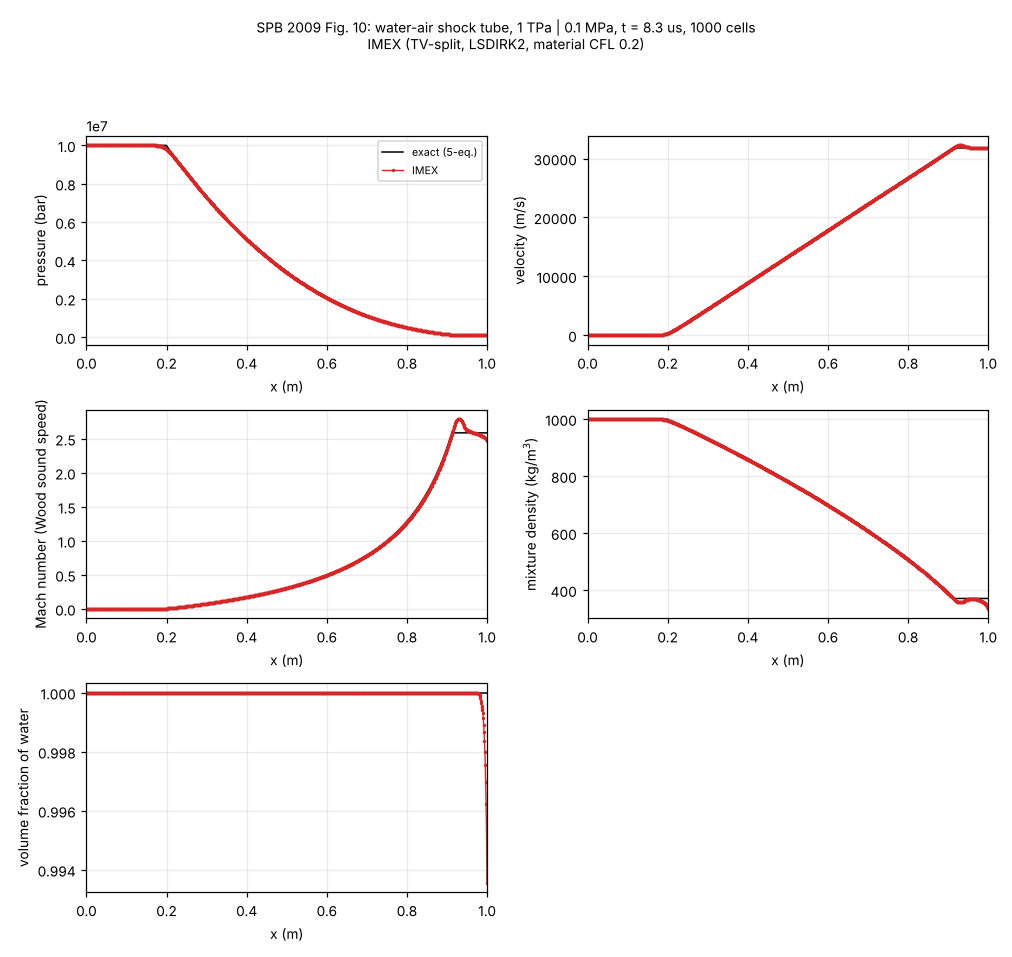
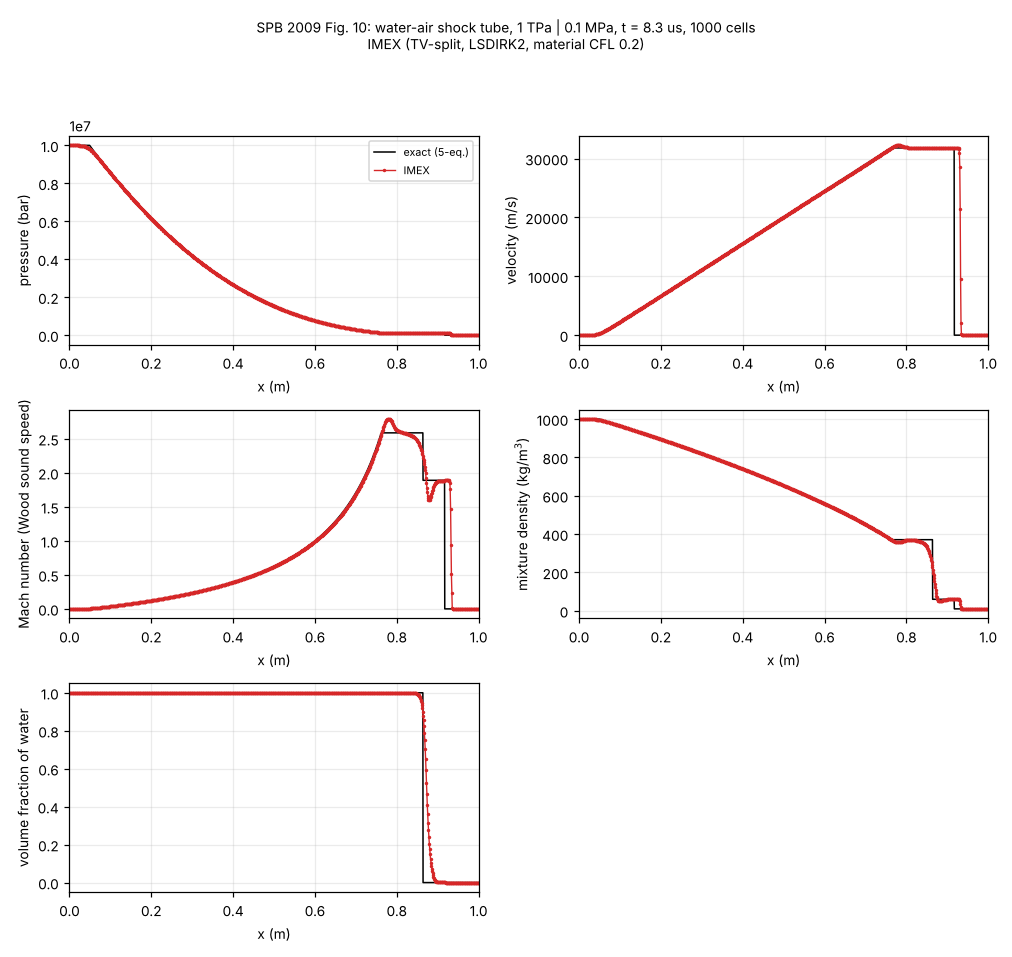
SPB 4.3.2: interface at 0.6 m as inferred from the paper's Fig. 10 (t = 8.3 us is right, the text's 0.75 m is not); devlog V15 15.8
Claude-Session: https://claude.ai/code/session_01S1n65tsz3avypBq5vvRFNT

diff --git a/src/spb6_physics.h b/src/spb6_physics.h
@@ -723,7 +723,9 @@ static void test_state(int test, double x, double y, double* Q) {
 		setcell(in ? 1 - 1e-6 : 1e-6, 2000.0, 1044.0, 0, 0, in ? 4.6406e10 : 1e5, in ? 4.6406e10 : 1e5); break; }
 	case testSPB_Interface: { const bool L = x < 0.5; setcell(L ? 1 - 1e-8 : 1e-8, 1000.0, 10.0, 100.0, 0, 1e5, 1e5); break; }
 	case testSPB_WaterAir: case testSPB_WaterAirTPa: {
-		const bool L = x < 0.75; const double pL = test == testSPB_WaterAir ? 1e9 : 1e12, ra = test == testSPB_WaterAir ? 1.0 : 10.0;
+		// 4.3.1 界面 0.75 m（正文）；4.3.2 正文说“同 4.3.1”，但论文图 10 的波位置（稀疏波头 0.035、波尾 0.765、接触 0.857、激波 0.910，t = 8.3 us）
+		// 反推出界面在 0.59-0.60 m，取 0.6 m（devlog V15 §15.8）
+		const bool L = x < (test == testSPB_WaterAir ? 0.75 : 0.6); const double pL = test == testSPB_WaterAir ? 1e9 : 1e12, ra = test == testSPB_WaterAir ? 1.0 : 10.0;
 		setcell(L ? 1 - 1e-6 : 1e-6, 1000.0, ra, 0, 0, L ? pL : 1e5, L ? pL : 1e5); break; }
 	case testSPB_EpoxySpinel: case testSPB_EpoxySpinelExt: {
 		const double pL = test == testSPB_EpoxySpinel ? 1e10 : 2e11; const double p = x < 0.6 ? pL : 1e5;

diff --git a/tests/metrics.py b/tests/metrics.py
@@ -12,9 +12,9 @@ case = int(sys.argv[1])
 for f in sys.argv[2:]:
     d = np.loadtxt(f); x = d[:, 0]; tag = os.path.basename(f)
     if case in (5, 6):   # SPB 4.3.1 / 4.3.2: nearly pure phases -> two-SG Euler exact solution
-        pl, ra, t = (1e9, 1.0, 240e-6) if case == 5 else (1e12, 10.0, 8.3e-6)
-        r, u, p, ps, us = esg.solve(1000, 0, pl, 4.4, 6e8, ra, 0, 1e5, 1.4, 0, 0.75, t, x)
-        g = (x > 0.75 + us * t + 2e-3) & (r < 100)            # shocked gas (between contact and shock)
+        pl, ra, t, x0 = (1e9, 1.0, 240e-6, 0.75) if case == 5 else (1e12, 10.0, 8.3e-6, 0.6)   # 4.3.2: interface 0.6 m (paper Fig. 10)
+        r, u, p, ps, us = esg.solve(1000, 0, pl, 4.4, 6e8, ra, 0, 1e5, 1.4, 0, x0, t, x)
+        g = (x > x0 + us * t + 2e-3) & (r < 100)            # shocked gas (between contact and shock)
         xs = x[np.where(d[:, 3] > 0.5 * us)[0].max()]          # numerical shock: last cell with u > u*/2
         xse = x[np.where(u > 0.5 * us)[0].max()] if (u > 0.5 * us).any() else np.nan
         print('%-24s L1 u %8.2f rho %7.3f p/p* %.4f | max u/u* %.4f | gas L1 p/p* %s | shock x %.4f (exact %.4f) | min p %.3e' % (

diff --git a/tests/plot_paper_figs.py b/tests/plot_paper_figs.py
@@ -187,7 +187,7 @@ if want('spb8'):   # Fig. 8: water-air shock tube 1 GPa / 0.1 MPa, 1000 cells, t
     single('spb8', 'SPB 2009 Fig. 8: water-air shock tube, 1 GPa | 0.1 MPa, t = 240 us, 1000 cells', 'spb8',
            [('pbar', 'pressure (bar)'), ('u', 'velocity (m/s)'), ('rho', 'mixture density (kg/m$^3$)'), ('a1', 'volume fraction of water')], (ex, P))
 if want('spb10'):  # Fig. 10: water-air shock tube 1 TPa, air 10 kg/m3, 1000 cells, t = 8.3 us
-    ex = exact5(P, (1 - 1e-6, 1000., 10., 0., 1e12), (1e-6, 1000., 10., 0., 1e5), 0.75, 8.3e-6)
+    ex = exact5(P, (1 - 1e-6, 1000., 10., 0., 1e12), (1e-6, 1000., 10., 0., 1e5), 0.6, 8.3e-6)   # interface 0.6 m (inferred from the paper's Fig. 10)
     single('spb10', 'SPB 2009 Fig. 10: water-air shock tube, 1 TPa | 0.1 MPa, t = 8.3 us, 1000 cells', 'spb10',
            [('pbar', 'pressure (bar)'), ('u', 'velocity (m/s)'), ('Mw', 'Mach number (Wood sound speed)'), ('rho', 'mixture density (kg/m$^3$)'),
             ('a1', 'volume fraction of water')], (ex, P))

diff --git a/docs/devlog.md b/docs/devlog.md
@@ -1277,6 +1277,12 @@ AP 照旧（$M\to0$ 时解收敛，与 $M$ 无关）；动能保持率与 $u_\th
   - Pelanti 8.2.2 $pTg$ 的 6 次：都在 $t=77\,\mu$s 的一步。上一级的压力作初猜时相变前沿的一个格闭合无解，Newton 第 0 次迭代就失败。
 - 为什么先 MOOD 再减半：(1) 减半后步长每步至多放大 1.2 倍，被限制的步用一阶（起步斜坡），一次减半带来约 4 个一阶步；MOOD 只有一个一阶步、步长不变。(2) V14 十二烷的不可容许来自 LSDIRK2 第二级 $Q^s\neq Q^e$（B3 的保正论证不成立），这个偏差与推进量同比例随 $\Delta t$ 缩小，减半不消除原因；后向 Euler 一级 $Q^s=Q^e$，保正在原步长下就成立。(3) 一阶步的个数与网格无关时全局仍是二阶；随网格增长（修 15.2 之前的涡）才掉阶。
 
+### 15.8 SPB 4.3.2（图 10）的初始界面位置（你的问题“stop time 是不对吗”）
+- 正文：4.3.2 “同 4.3.1”（界面 0.75 m），$t=8.3\,\mu$s。按这个设置，接触间断（$u^*=31800$ m/s）在 $t=8.3\,\mu$s 时已到 $x=1.014$，空气激波（38160 m/s）在 $6.55\,\mu$s 就离开计算域，图上只有稀疏波；论文图 10 却有接触间断和激波。
+- 从论文图 10 读出：稀疏波头约 0.035，波尾（速度峰）约 0.765，接触约 0.857，激波约 0.910。两两相减消去界面位置：$(0.857-0.035)/(31801+66352)=8.37\,\mu$s，$(0.910-0.035)/(38160+66352)=8.37\,\mu$s，**时刻是对的**；取 $t=8.3\,\mu$s，四个波各自给出界面 0.586、0.603、0.593、0.593（平均 0.594，读图误差约 0.007）。**论文实际用的界面在 0.59–0.60 m**，取 0.6 m（`test_state`、`metrics.py`、`plot_paper_figs.py` 同改）。
+- 新设置下（1000 格）：IMEX 空气激波提前 15 格、接触提前 10 格，$L_1(u)=520$（激波处 $u$ 从 31800 跳到 0，位置偏 15 格就是这个量级）；显式 HLLC 提前 5 格、3.6 格，$L_1(u)=179$。
+- 偏差是起步误差：$t=1\,\mu$s 时已是 13 格，之后恒为 15 格（显式恒为 5 格）；网格 500 / 1000 / 2000 时位置误差 0.026 / 0.015 / 0.0075 m，一阶收敛。来源是压力比 $10^7$ 的初始间断在头几步（起步斜坡里的后向 Euler 步，$t=0$ 处 6 次拒绝）里的处理。仍未解决的问题第 3 条改为这一条。
+
 ### 15.5 数据
 原始输出在 `run/vortex/`（不进仓库）；表由 `python3 tests/vortex_table.py run/vortex lim0` 生成。
 
@@ -1364,7 +1370,7 @@ AP 照旧（$M\to0$ 时解收敛，与 $M$ 无关）；动能保持率与 $u_\th
 
 1. ~~光滑区收敛阶~~：V14，试验方法的问题；`limiter=0` 时 IMEX 的 $L_1$、$L_2$ 阶都是 2.0（14.1）。限制器开着时阶约 1.4–2（取决于极值的个数），这是 minmod 的性质。
 2. ~~SPB 4.3.1 的界面速度过冲约 5%~~：V10 解决（1.0014）。
-3. **SPB 4.3.2 的尾部误差**：V14 从 84 降到 46（逐面局部 Rusanov 速度 + 14.2），显式 HLLC 17。剩下的差距是 Rusanov 型物质速度耗散与 HLLC 的差别。
+3. **SPB 4.3.2 的起步误差**（V15 §15.8，界面改为论文图 10 实际的 0.6 m 后）：空气激波提前 15 格（显式 HLLC 5 格），恒定、随网格一阶收敛；$L_1(u)$ 520（显式 179）。界面 0.75 m 时（V14）的尾部误差 46（显式 17）。
 4. ~~±500 m/s $pTg$ 的起步加热~~：V14，中心压力 $7.8\times10^4\to2.6\times10^4$ Pa（$N=1000$），低于显式的 $3.0\times10^4$；P-S 图 2 约 $1.1\times10^4$，带激活的 HEM 精确扇 664 Pa。所有数值解在初始速度间断处都有起步熵增，这部分不随网格消失。
 5. ~~SPB 4.5 中心压力约 2200 Pa~~：V10 解决。
 6. ~~显式 SPB 格式在 ±500 m/s、只有 $p$ 松弛时的起步尖峰~~：V10 解决。
